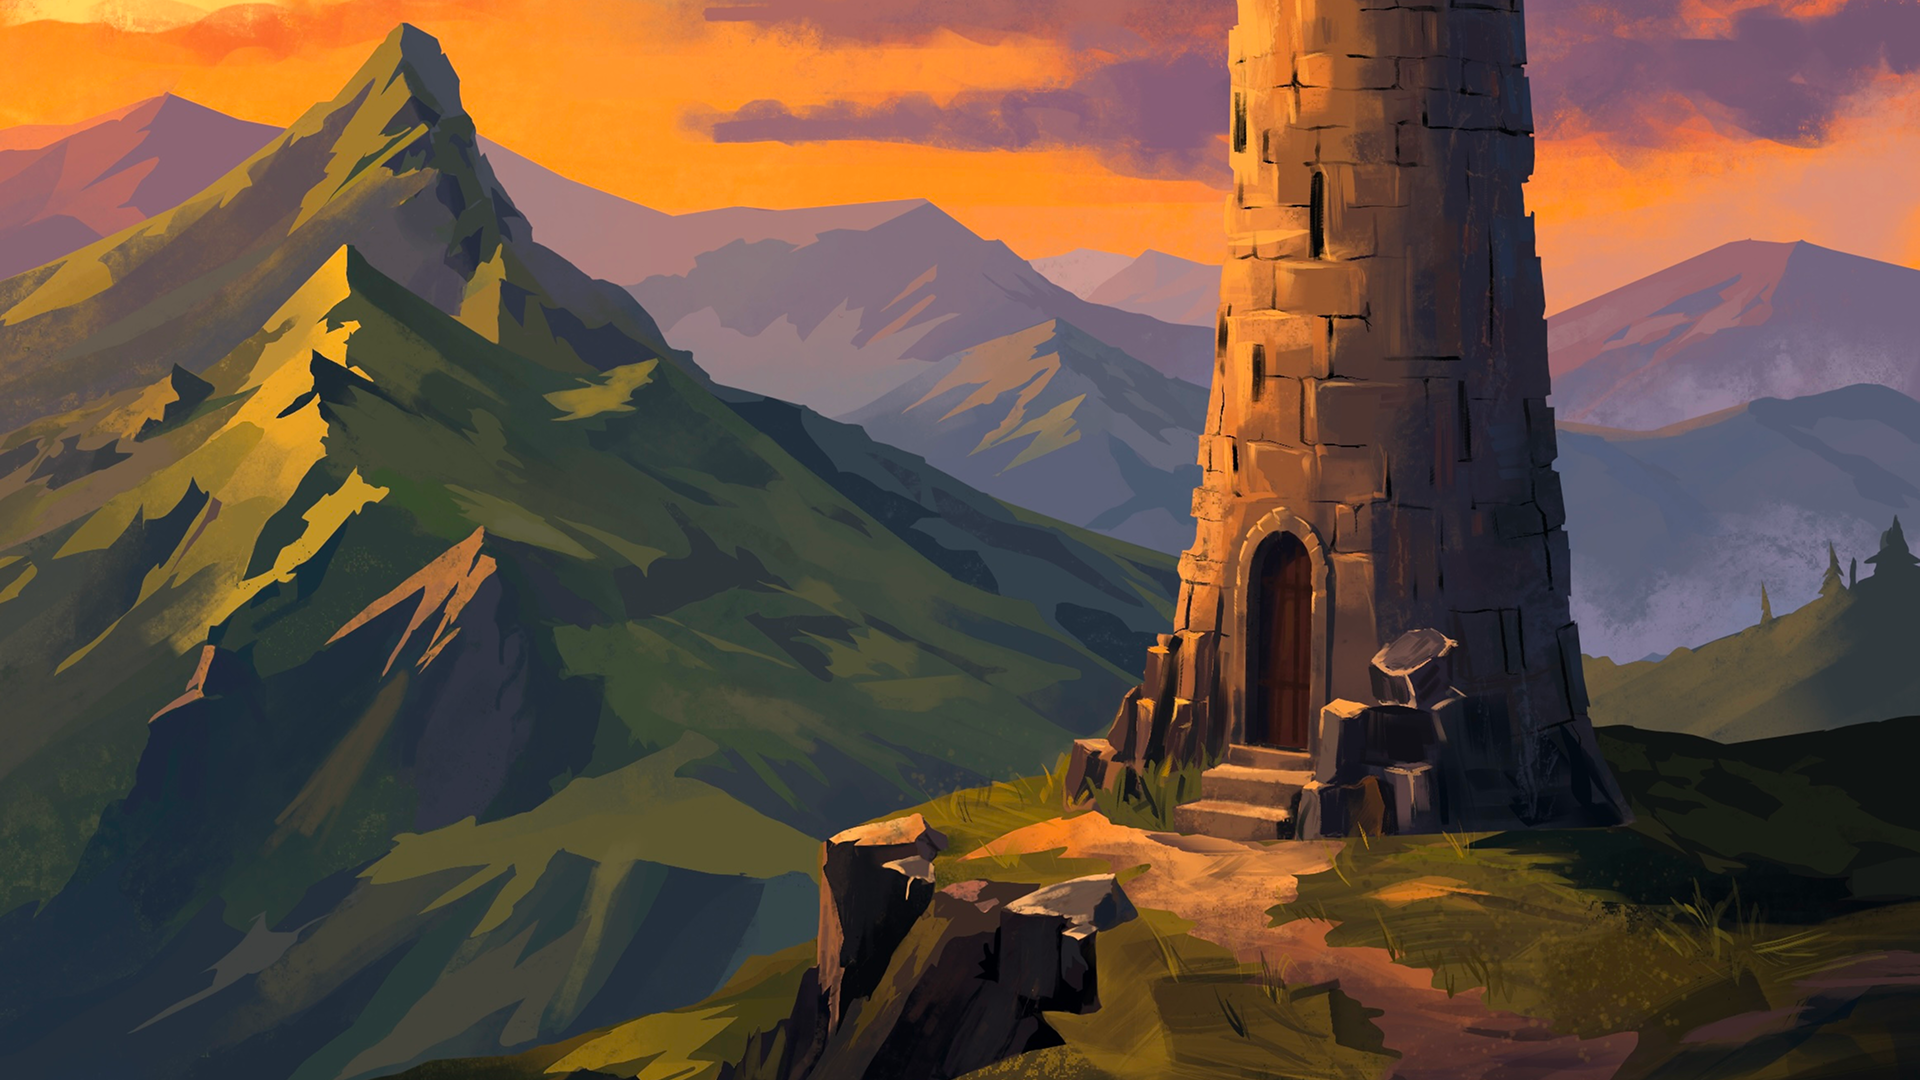
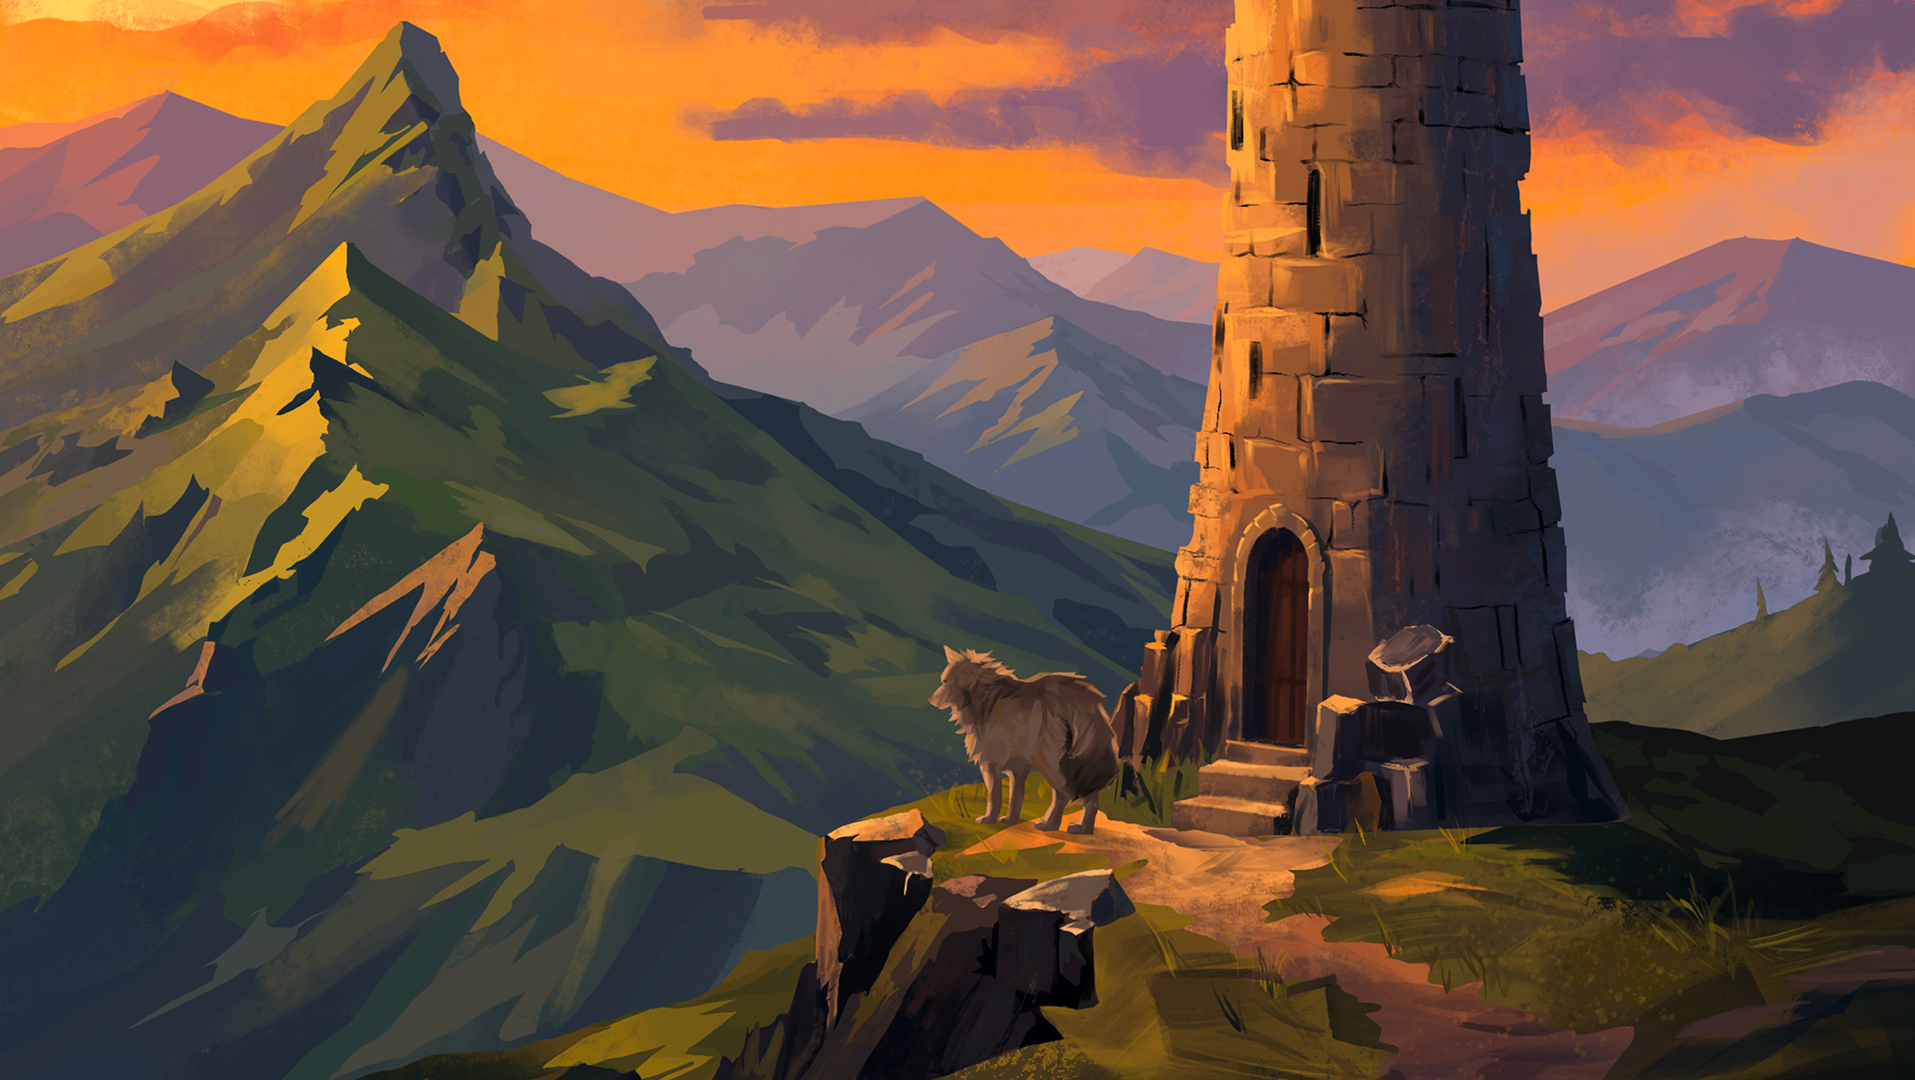
хз книга хз

diff --git a/style.css b/style.css
@@ -25,11 +25,10 @@ html, body {
 /* Для каждого слайда свой цвет фона, подходящий к изображению */
 .slide[data-slide="0"] { background: #2d5a3a; }  /* зелёный — под лес/лукоморье */
 .slide[data-slide="1"] { background: #1a3a2a; }  /* тёмно-зелёный */
-.slide[data-slide="2"] {
-    background: radial-gradient(ellipse at center, #4a3a2a 0%, #1a0a0a 100%);
-}.slide[data-slide="3"] { background: #2a3a4a; }  /* синеватый — под воду/море */
-.slide[data-slide="4"] { background: #3a2a2a; }  /* тёмно-бордовый */
-.slide[data-slide="5"] { background: #2a2a3a; }  /* тёмно-синий */
+.slide[data-slide="2"] { background: linear-gradient(to bottom, #9b92b0, #c3a4ac, #e28e2e); } /* для книги */
+.slide[data-slide="3"] { background: linear-gradient(to bottom, #98747b, #7a576e, #78556c); }  /* тёмно-бордовый */
+.slide[data-slide="4"] { background: linear-gradient(to bottom, #da7d5e, #796b83, #0f1312, #131c23); }  /* тёмно-бордовый */
+.slide[data-slide="5"] { background: radial-gradient(ellipse at center, #3e3c34 0%, #171a17 90%); }  /* тёмно-синий */
 .slide[data-slide="start"] { background: #3a4a2a; } /* для книги */
 .slide[data-slide="11"] { background: #2a1a0a; }  /* для финальной книги */
 
@@ -290,7 +289,7 @@ html, body {
     height: 100%;
     top: 0;
     right: 0;
-    background: #f8f1e3;
+    background: url('images/test3.png') center/cover no-repeat;
     box-shadow: -8px 0 20px rgba(0,0,0,0.25);
     padding: 35px 30px;
     font-family: 'Monomakh', Georgia, serif;
@@ -319,8 +318,7 @@ html, body {
     position: absolute;
     width: 100%;
     height: 100%;
-    background: linear-gradient(135deg, #5c2a0e, #8b4513);
-    color: #f4e9d8;
+    background: url('images/test.webp') center/cover no-repeat;
     border-radius: 0 4px 4px 0;
     backface-visibility: hidden;
     box-shadow: inset 0 0 30px rgba(0,0,0,0.15);
@@ -337,7 +335,7 @@ html, body {
     position: absolute;
     width: 100%;
     height: 100%;
-    background: #e8dcc8;
+    background: url('images/test3.png') center/cover no-repeat;
     border-radius: 4px 0 0 4px;
     backface-visibility: hidden;
     transform: rotateY(180deg);
@@ -399,13 +397,16 @@ html, body {
 .book-title {
     font-size: 5.2vmin;
     margin-bottom: 20px;
-    text-shadow: 0 2px 8px rgba(0,0,0,0.6);
+    /*text-shadow: 0 2px 8px rgba(0,0,0,0.6);*/
     line-height: 1.1;
+    color: #1d120b;
 }
 
 .book-author {
     font-size: 3.2vmin;
     opacity: 0.95;
+    color: #1d120b;
+
 }
 
 /* ========== СЛАЙД 4: ОБМЕН РАЗМЫТИЕМ ========== */
@@ -589,24 +590,114 @@ html, body {
 }
 
 
-/* Простая белая плашка без размытия (легче для производительности) */
-/* Прямоугольная плашка с градиентом от центра к краям (без видимых границ) */
-/* Прямоугольная плашка с градиентом — прозрачная у краёв */
+/* Полупрозрачная плашка: размытие только у самой подложки, не у изображения */
 .text-layer, .text, .text-alternate, .text-third {
-    background: radial-gradient(
-            ellipse at center,
-            rgba(255, 255, 255, 0.8) 0%,
-            rgba(255, 255, 255, 0.75) 20%,
-
-            rgba(255, 255, 255, 0.28) 78%,
-            rgba(255, 255, 255, 0.08) 90%,
-            rgba(255, 255, 255, 0.00) 100%
-    );;
-    padding: 10px 38px 48px 38px;
-    border-radius: 4px;           /* почти прямоугольник */
+    padding: 0.1em 0.9em 0.8em 0.9em;
+    border-radius: 4px;
     display: inline-block;
     max-width: 90%;
 }
 
+.text-layer::before,
+.text::before,
+.text-alternate::before,
+.text-third::before {
+    content: '';
+    position: absolute;
+    z-index: -1;
+    top: -0.45em;
+    right: -0.55em;
+    bottom: -0.45em;
+    left: -0.55em;
+    background: var(--plaque-color, rgba(255, 255, 255, 0.58));
+    border-radius: 4px;
+    filter: blur(20px);
+    mix-blend-mode: screen;
+    pointer-events: none;
+}
+
+/* Цвета подложек по группам текста */
+.slide[data-slide="0"] .textbox { --plaque-color: rgba(255, 233, 175, 0.58); }  /* #FFE9AF */
+.slide[data-slide="2"] .textbox { --plaque-color: rgba(255, 229, 159, 0.58); }  /* #FFE59F */
+.slide[data-slide="3"] .textbox { --plaque-color: rgba(242, 212, 185, 0.58); }  /* #F2D4B9 */
+.slide[data-slide="4"] .textbox { --plaque-color: rgba(32, 39, 45, 0.79); --text-color: white;}
+/*.slide[data-slide="5"] .textbox { --plaque-color: rgba(36, 33, 28, 0.79); --text-color: #f1d6b2;}*/
+.slide[data-slide="5"] .slide-content { --plaque-color: rgb(23, 29, 28); --text-color: #cec9b7;}
 
 
+.text-layer,
+.text,
+.text-alternate,
+.text-third {
+    color: var(--text-color, #1a1a1a);
+}
+
+
+/*.slide[data-slide="start"] .book-container {*/
+/*    position: relative;*/
+/*    background: url('images/download.png') center/cover no-repeat;*/
+/*}*/
+
+/* ====================== СЛАЙД 4: ЛЕТЯЩАЯ БАБА-ЯГА ====================== */
+/* ====================== СЛАЙД 4: ЛЕТЯЩАЯ БАБА-ЯГА ====================== */
+.slide[data-slide="4"] .flying-stupa {
+    position: absolute;
+    left: 0;
+    top: 15%;
+    width: 15% !important;
+    height: auto !important;
+    z-index: 15;
+    pointer-events: none;
+    will-change: transform;
+    transform: translateX(-100%);  /* Начинаем за левым краем */
+    opacity: 0;
+
+}
+
+.slide[data-slide="4"].flying .flying-stupa {
+    animation: flyAcross 6s ease-in-out forwards;
+}
+
+@keyframes flyAcross {
+    0% {
+        transform: translateX(-100%);
+        opacity: 0;
+    }
+    10% {
+        opacity: 1;
+    }
+    90% {
+        opacity: 1;
+    }
+    100% {
+        transform: translateX(1500%);
+        opacity: 0;
+    }
+}
+/* ========== СЛАЙД 5: БЛЕСК ЗОЛОТА У КАЩЕЯ ========== */
+.slide[data-slide="5"] {
+    position: relative;
+}
+
+.slide[data-slide="5"] .gold-shimmer {
+    position: absolute;
+    top: 28%;
+    left: 7%;
+    width: 59%;
+    height: auto;
+    object-fit: cover;
+    pointer-events: none;
+    z-index: 10;
+    opacity: 0.2;
+    animation: sparkle 1.5s ease-in-out infinite alternate;
+    mix-blend-mode: screen;  /* или screen, или soft-light, или hard-light */
+}
+
+@keyframes sparkle {
+    0% {
+        opacity: 0.15;
+    }
+    100% {
+        opacity: 0.7;
+    }
+}

diff --git a/script.js b/script.js
@@ -205,6 +205,33 @@ if (slide4) {
         }
     });
 }
+
+
+// ========== СЛАЙД 4 (data-slide="4"): ТЕКСТ + ПОЛЁТ БАБЫ-ЯГИ ==========
+const slide5 = document.querySelector('.slide[data-slide="4"]');
+
+if (slide5) {
+    let hasFlown = false;
+    const defaultText5 = slide5.querySelector('.text');
+    const altText5 = slide5.querySelector('.text-alternate');
+    const flyingStupa = slide5.querySelector('.flying-stupa');
+
+    // Начальное состояние
+    if (defaultText5) defaultText5.style.opacity = '1';
+    if (altText5) altText5.style.opacity = '0';
+
+    slide5.addEventListener('click', () => {
+        if (!hasFlown) {
+            // Меняем текст
+            if (defaultText5) defaultText5.style.opacity = '0';
+            if (altText5) altText5.style.opacity = '1';
+
+            // Запускаем анимацию
+            slide5.classList.add('flying');
+            hasFlown = true;
+        }
+    });
+}
 // ========== ПОСЛЕДНИЙ СЛАЙД — КНИГА ОТКРЫВАЕТСЯ ПО КЛИКУ ==========
 const lastSlide = document.querySelector('.slide[data-slide="11"]');
 const closingBook = document.getElementById('closing-book');
@@ -226,4 +253,6 @@ if (lastSlide && closingBook) {
         // При повторном клике ничего не происходит
     });
 }
+
+
 

diff --git a/index.html b/index.html
@@ -11,11 +11,12 @@
     <!-- Слайд "Начало" - открывающаяся книга -->
     <div class="slide" data-slide="start">
         <div class="slide-content book-container">
+
             <div class="book" id="opening-book">
                 <!-- Правая страница (разворот) -->
                 <div class="book-page">
                     <div class="page-content">
-                        <h2>Сказка о Руслане и Людмиле</h2>
+                        <h2>Пролог к поэме «Руслан и Людмила»</h2>
                         <p class="intro-text">
                             У лукоморья дуб зелёный;<br>
                             Златая цепь на дубе том…
@@ -107,14 +108,15 @@
                     Там королевич мимоходом<br>
                     Пленяет грозного царя;
                 </div>
-                <div class="text-alternate" style="left: 60%; top: 60%">
+                <div class="text-alternate" style="left: 64%; top: 60%">
                     Там в облаках перед народом<br>
                     Через леса, через моря<br>
                     Колдун несёт богатыря;
                 </div>
-                <div class="text text-third" style="left: 20%; top: 30%; opacity: 0;">
+                <div class="text text-third" style="left: 5%; top: 5%; opacity: 0;">
                     В темнице там царевна тужит,
                 </div>
+
             </div>
         </div>
     </div>
@@ -122,12 +124,26 @@
     <div class="slide" data-slide="4">
         <div class="slide-content">
             <img src="images/slide5_1.png" alt="Иллюстрация 5" loading="lazy">
+            <img src="images/baba_yaga.webp" alt="Ступа с Бабой Ягой" class="flying-stupa" loading="lazy">
+            <div class="textbox">
+                <div class="text" style="left: 5%; top: 70%">
+                    А бурый волк ей верно служит;
+                </div>
+                <div class="text-alternate" style="left: 10%; top: 65%;">
+                    Там ступа с Бабою Ягой<br>
+                    Идёт, бредёт сама собой,
+                </div>
+            </div>
         </div>
     </div>
 
     <div class="slide" data-slide="5">
         <div class="slide-content">
             <img src="images/slide6_1.png" alt="Иллюстрация 6" loading="lazy">
+            <img src="images/slide6_25.png" alt="Блеск золота" class="gold-shimmer" loading="lazy">
+            <div class="text" style="left: 2%; top: 2%">
+                Там царь Кащей над златом чахнет;
+            </div>
 
         </div>
     </div>